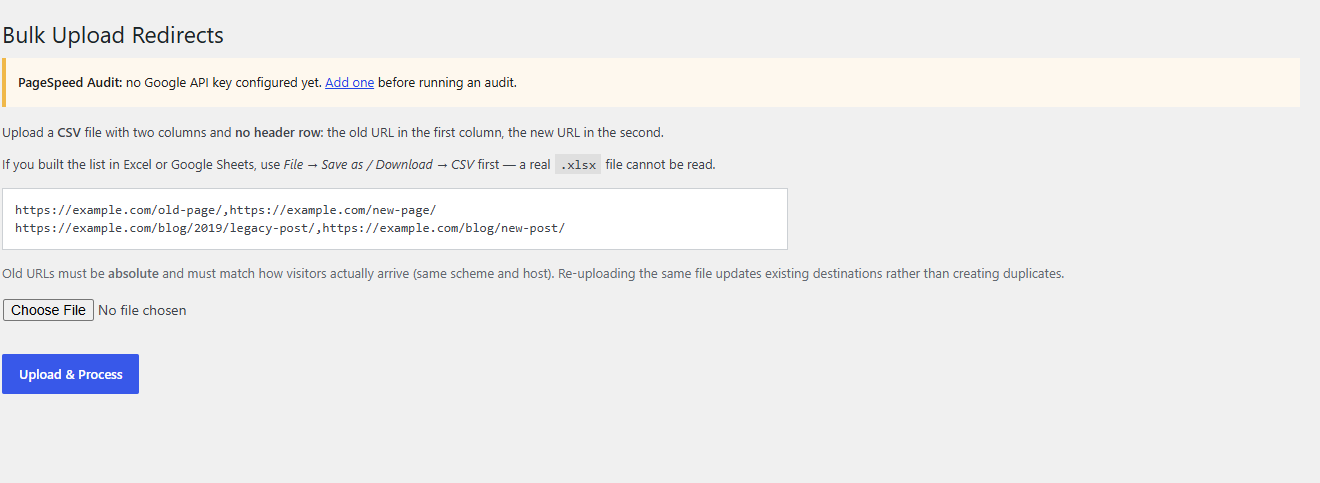
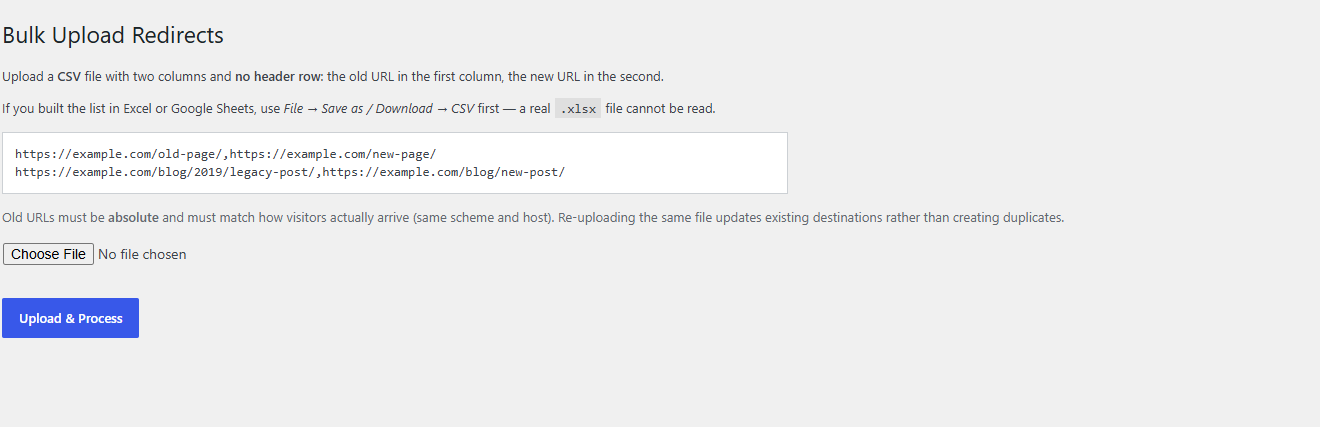
Show these three plugins doing their actual job
youtube-reels-carousel
  The demo reels were regular 16:9 videos, which letterbox badly inside a
  vertical tile. Replaced with real YouTube Shorts so the carousel shows
  what the plugin is actually for, and documented that Shorts are the
  format to use.

pagespeed-audit-plugin
  Added screenshots from the live deployment at codinative.com/store-audit
  — the email gate, and real Lighthouse scores and Core Web Vitals for
  both the desktop and mobile tabs.

redirection-urls
  Added the spreadsheet the bulk import starts from: a sample sheet image,
  the same layout as a markdown table, and a downloadable
  docs/sample-redirects.csv. The list-table screenshot is now that file
  genuinely imported, showing the result counts the import reports.

diff --git a/redirection-urls/README.md b/redirection-urls/README.md
@@ -12,17 +12,21 @@
 
 ## Screenshots
 
-The list table shows the destination and the status code at a glance, so an audit does not mean opening every row.
+**The spreadsheet you start from.** Two columns, no header row — column A is the old URL, column B is where it should go. A ready-made copy is in [`docs/sample-redirects.csv`](docs/sample-redirects.csv).
 
-![Redirect list](docs/screenshots/01-redirect-list.png)
+![Sample spreadsheet](docs/screenshots/04-sample-sheet.png)
 
-Each redirect takes an old URL, a new URL and a status code.
-
-![Redirect editor](docs/screenshots/02-redirect-editor.png)
-
-Bulk upload takes a two-column CSV and reports what it did.
+**Bulk Upload** takes that file as CSV.
 
 ![Bulk upload](docs/screenshots/03-bulk-upload.png)
+
+**After importing**, the plugin reports exactly what it did and every row is visible with its destination and status code — no opening each one to find out where it points. (The screenshot below is that sample file actually imported: *6 added, 0 updated, 0 skipped*, on top of two redirects created by hand.)
+
+![Redirect list after import](docs/screenshots/01-redirect-list.png)
+
+**Editing a redirect** — old URL, new URL, and the 301 / 302 / 307 selector.
+
+![Redirect editor](docs/screenshots/02-redirect-editor.png)
 
 ---
 
@@ -85,15 +89,34 @@ The list table shows **Old URL**, **Redirects to** and **Type** at a glance, so 
 
 **Redirects → Bulk Upload**
 
-The file must be a plain **CSV** with **two columns and no header row** — old URL first, new URL second:
+The file must be a plain **CSV** with **two columns and no header row** — old URL first, new URL second.
 
-```
-https://example.com/old-page/,https://example.com/new-page/
+Build it in Excel or Google Sheets exactly like this:
+
+| | A | B |
+|---|---|---|
+| **1** | `https://example.com/old-services/` | `https://example.com/services/` |
+| **2** | `https://example.com/blog/2019/legacy-post/` | `https://example.com/blog/new-post/` |
+| **3** | `https://example.com/products/discontinued-widget/` | `https://example.com/products/widget-pro/` |
+| **4** | `/about-us-old/` | `/about/` |
+| **5** | `/shop/category/summer-2023/` | `/shop/category/summer/` |
+| **6** | `https://example.com/contact-form/` | `https://example.com/contact/` |
+
+Then **File → Save as / Download → CSV**, which gives you:
+
+```csv
+https://example.com/old-services/,https://example.com/services/
 https://example.com/blog/2019/legacy-post/,https://example.com/blog/new-post/
-/another-old-path/,/another-new-path/
+https://example.com/products/discontinued-widget/,https://example.com/products/widget-pro/
+/about-us-old/,/about/
+/shop/category/summer-2023/,/shop/category/summer/
+https://example.com/contact-form/,https://example.com/contact/
 ```
 
-If you built the list in Excel or Google Sheets, use **File → Save as / Download → CSV** first. A real `.xlsx` workbook is a zip archive and cannot be read — the plugin will tell you so rather than importing garbage.
+Download the ready-made version: **[`docs/sample-redirects.csv`](docs/sample-redirects.csv)**.
+
+> A real `.xlsx` workbook is a zip archive and cannot be read — the plugin will say so rather than importing garbage. Always export to CSV first.
+> Mixing full URLs and site-relative paths in the same file is fine; both forms work.
 
 After the upload you get a count: *"Import finished: 42 added, 3 updated, 1 skipped."*
 

diff --git a/youtube-reels-carousel/README.md b/youtube-reels-carousel/README.md
@@ -11,9 +11,11 @@
 
 ## Screenshots
 
-Five tiles per row, each one a live muted embed, with the previous/next arrows overlaid.
+Five tiles per row, each one a live muted embed, with the previous/next arrows overlaid. These are real YouTube **Shorts** — vertical 9:16 video, which is what the tile is shaped for.
 
 ![Carousel on the front end](docs/screenshots/01-carousel.png)
+
+> **Use Shorts, not regular videos.** A standard 16:9 upload still plays, but it letterboxes inside the vertical tile with large black bands above and below. Paste `youtube.com/shorts/…` links (or any genuinely vertical video) and the frame fills properly, as above.
 
 Reels are managed like any other post type.
 
@@ -44,15 +46,17 @@ The video chrome is stripped (`controls=0`, no keyboard, no fullscreen button) s
 
 **4. Add reels.** Reels → Add New → give it a title (for your own reference — it is never displayed) → paste a YouTube URL into `video_url` → Publish.
 
-Accepted URL formats:
+Accepted URL formats — **prefer the Shorts form**, since the tiles are vertical:
 
 ```
+https://www.youtube.com/shorts/VIDEOID      ← recommended
 https://www.youtube.com/watch?v=VIDEOID
 https://youtu.be/VIDEOID
-https://www.youtube.com/shorts/VIDEOID
 https://www.youtube.com/embed/VIDEOID
 <iframe src="https://www.youtube.com/embed/VIDEOID" …></iframe>
 ```
+
+All five resolve to the same video id, so a Short pasted in `watch?v=` form works too. What matters is that the **video itself is vertical** — a landscape video will letterbox inside the tile.
 
 **5. Place the shortcode** on any page:
 

diff --git a/pagespeed-audit-plugin/README.md b/pagespeed-audit-plugin/README.md
@@ -12,11 +12,29 @@
 
 ## Screenshots
 
+### Live deployment
+
+This plugin runs in production at **[codinative.com/store-audit](https://codinative.com/store-audit/)**. The screenshots below are that live tool, styled with the site's own branding and logo — everything brand-specific is a setting, so your install carries yours.
+
+A visitor is met by the email gate:
+
+![Email gate on the live site](docs/screenshots/05-live-email-gate.png)
+
+Then they enter a URL and get real Lighthouse scores and Core Web Vitals, with Desktop and Mobile tabs:
+
+| Desktop | Mobile |
+|---|---|
+| ![Desktop results](docs/screenshots/06-live-results-desktop.png) | ![Mobile results](docs/screenshots/07-live-results-mobile.png) |
+
+Both tabs come from a single request — the plugin fetches desktop and mobile together, so switching is instant.
+
+### Admin
+
 **Settings → PageSpeed Audit** — the API key, the PDF logo and the contact email printed on the report.
 
 ![Settings](docs/screenshots/01-settings.png)
 
-On the front end, the shortcode renders an email gate followed by the audit form.
+On a fresh install with the default theme, the same shortcode renders like this:
 
 | Email gate | Audit form |
 |---|---|
